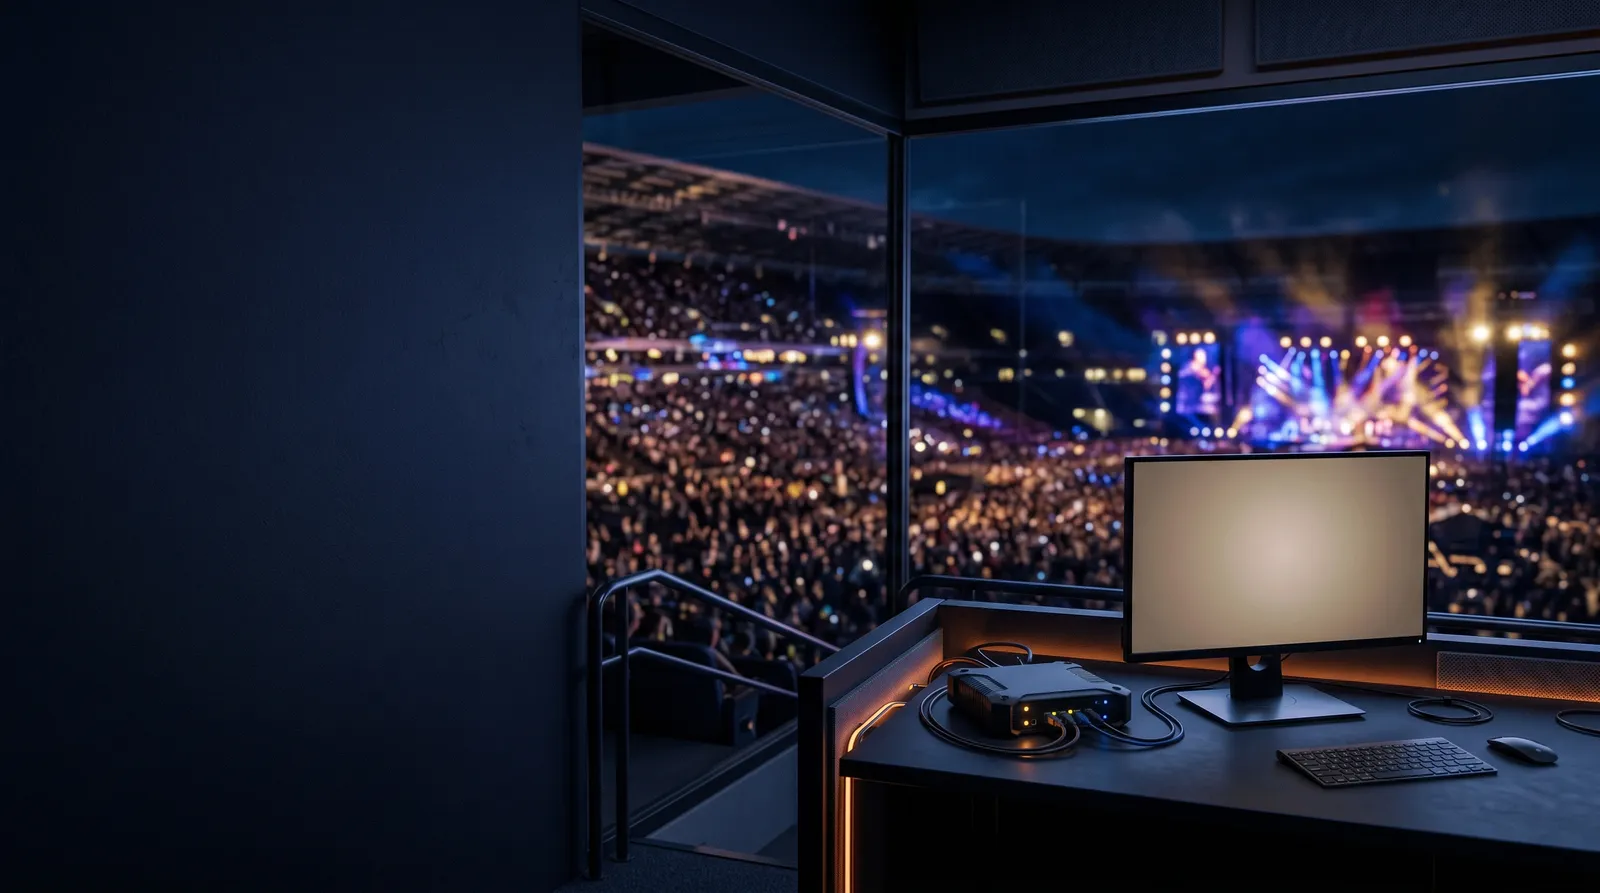
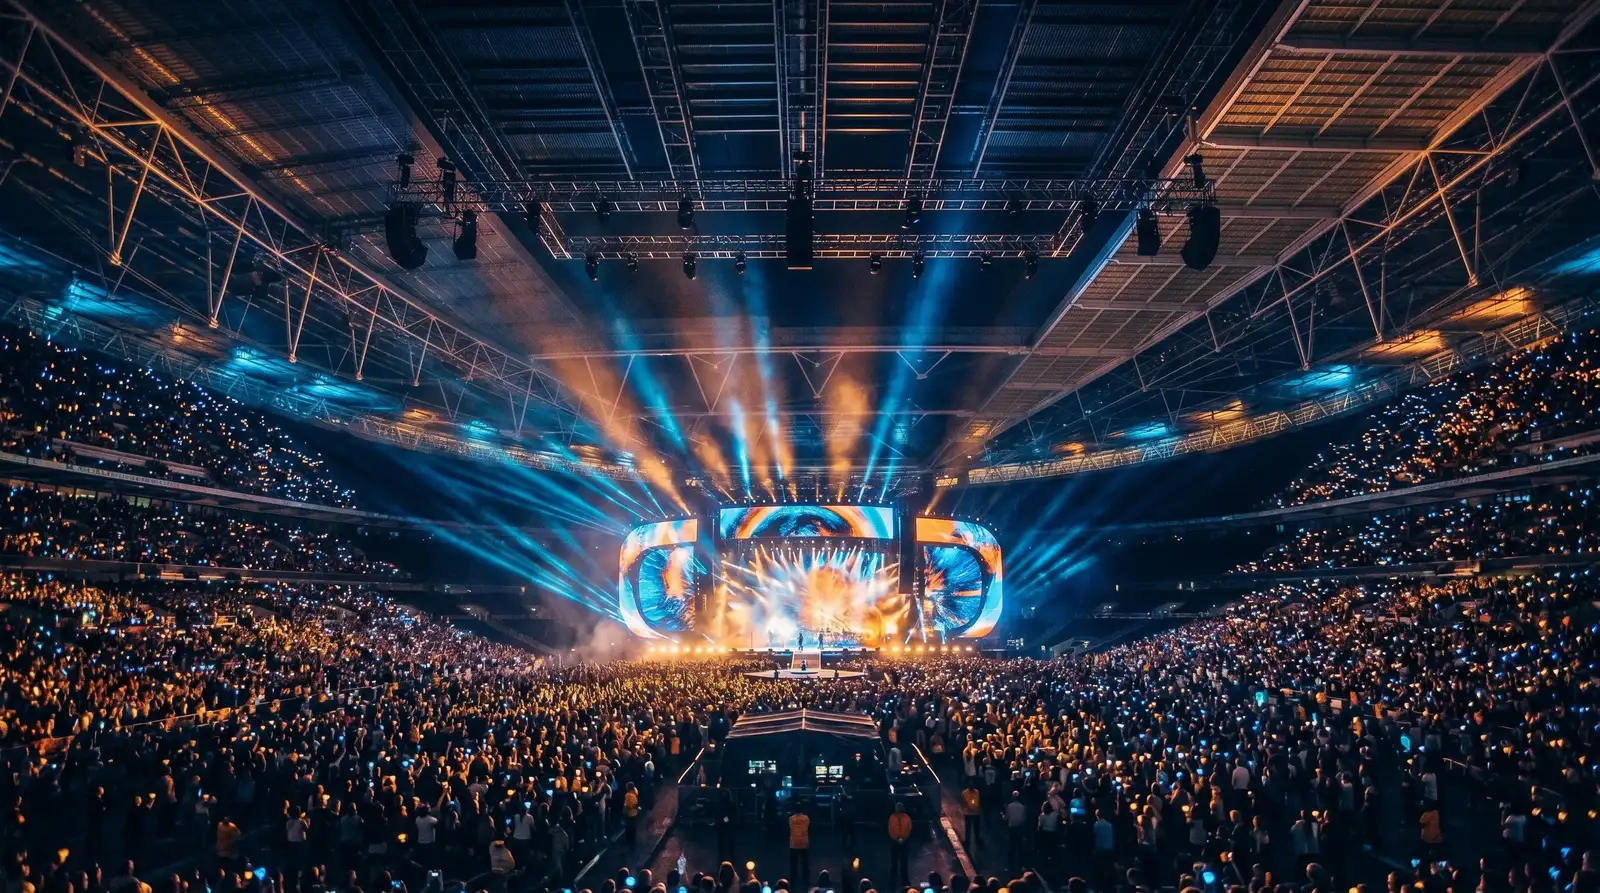
Event IT Portfolio: full-bleed hero, white cards on light-grey, benchmark Get in Touch band

diff --git a/app/event-it/portfolio/page.js b/app/event-it/portfolio/page.js
@@ -4,6 +4,7 @@ import { useState } from 'react'
 import Link from 'next/link'
 import Header from '@/components/site/Header'
 import Footer from '@/components/site/Footer'
+import CTAPhoneButtons from '@/components/site/CTAPhoneButtons'
 import * as Icons from 'lucide-react'
 
 export default function EventPortfolioPage() {
@@ -53,17 +54,17 @@ export default function EventPortfolioPage() {
 
         {/* Hero */}
         <section className="relative py-20 md:py-28 px-6 overflow-hidden" style={{ background: '#0B1A46' }}>
-          {/* Hero photo — subject RIGHT, dark zone LEFT carries H1 */}
+          {/* Hero photo — full-bleed, edge to edge */}
           <img
             src="/images/event-it/portfolio-hero.webp"
             alt="Event IT portfolio Abu Dhabi"
             loading="eager"
             fetchPriority="high"
             decoding="async"
-            style={{ position: 'absolute', inset: 0, width: '100%', height: '100%', objectFit: 'cover', objectPosition: 'right', zIndex: 0 }}
+            style={{ position: 'absolute', inset: 0, width: '100%', height: '100%', objectFit: 'cover', objectPosition: 'center', zIndex: 0 }}
           />
-          {/* Brand-blue overlay at 60% opacity */}
-          <div className="absolute inset-0 pointer-events-none" style={{ background: 'rgba(30,58,138,0.60)', zIndex: 10 }} aria-hidden="true" />
+          {/* Left-to-right gradient scrim — text legible on left, arena visible on right */}
+          <div className="absolute inset-0 pointer-events-none" style={{ background: 'linear-gradient(90deg, rgba(11,26,70,0.75) 0%, rgba(11,26,70,0.45) 45%, rgba(11,26,70,0.10) 100%)', zIndex: 10 }} aria-hidden="true" />
           {/* Orange glow */}
           <div className="pointer-events-none absolute inset-0 overflow-hidden" style={{ zIndex: 11 }}>
             <div className="absolute -top-20 left-1/2 -translate-x-1/2 w-[700px] h-[500px] rounded-full blur-3xl opacity-20" style={{ background: 'radial-gradient(circle, #E87722 0%, transparent 70%)' }}/>
@@ -81,7 +82,7 @@ export default function EventPortfolioPage() {
         </section>
 
         {/* Filter Tabs */}
-        <section className="py-8 px-6" style={{ background: 'rgba(255,255,255,0.03)', backdropFilter: 'blur(8px)' }}>
+        <section className="py-8 px-6" style={{ background: '#F4F6FA' }}>
           <div className="max-w-[1400px] mx-auto">
             <div className="flex flex-wrap justify-center gap-2">
               {categories.map((cat) => (
@@ -91,7 +92,7 @@ export default function EventPortfolioPage() {
                   className={`px-5 py-2.5 rounded-lg text-sm font-semibold transition-all ${
                     activeFilter === cat
                       ? 'bg-[#E87722] text-white'
-                      : 'bg-white/5 text-white/70 hover:bg-white/10 border border-white/10'
+                      : 'bg-white text-[#0B1A46] hover:bg-[#E87722]/10 border border-[#0B1A46]/10'
                   }`}
                 >
                   {cat}
@@ -107,12 +108,16 @@ export default function EventPortfolioPage() {
         </section>
 
         {/* Events Grid */}
-        <section className="py-16 px-6">
+        <section className="py-16 px-6" style={{ background: '#F4F6FA' }}>
           <div className="max-w-[1400px] mx-auto">
             {filteredEvents.length > 0 ? (
               <div className="grid md:grid-cols-3 gap-5">
                 {filteredEvents.map((event) => (
-                  <div key={event.id} className="glass-card overflow-hidden group hover:border-[#E87722]/40 transition-all">
+                  <div
+                    key={event.id}
+                    className="overflow-hidden group transition-all"
+                    style={{ background: '#FFFFFF', borderTop: '3px solid #E87722', borderRadius: '16px', boxShadow: '0 8px 32px rgba(10,26,70,0.18)' }}
+                  >
                     <div className="h-48 relative overflow-hidden" style={{ background: 'linear-gradient(135deg, rgba(232,119,34,0.15) 0%, rgba(27,108,168,0.15) 100%)' }}>
                       {event.img ? (
                         <img
@@ -129,28 +134,27 @@ export default function EventPortfolioPage() {
                           <Icons.Play size={64} className="text-white/20"/>
                         </div>
                       )}
-                      <div className="absolute inset-0 bg-gradient-to-t from-[rgba(7,16,42,0.95)] to-transparent opacity-80 pointer-events-none"/>
                     </div>
                     <div className="p-6">
-                      <h3 className="text-white text-lg font-bold mb-2">{event.name}</h3>
-                      <div className="flex items-center gap-2 mb-3 text-white/60 text-sm">
+                      <h3 className="text-lg font-bold mb-2" style={{ color: '#0B1A46' }}>{event.name}</h3>
+                      <div className="flex items-center gap-2 mb-3 text-sm" style={{ color: '#58595B' }}>
                         <Icons.MapPin size={14}/>
                         <span>{event.location}</span>
                         <span>•</span>
                         <span>{event.year}</span>
                       </div>
-                      <p className="body-text text-sm mb-2"><strong>Services:</strong> {event.services}</p>
-                      <p className="body-text text-sm mb-4"><strong>Technology:</strong> {event.tech}</p>
+                      <p className="text-sm mb-2" style={{ color: '#58595B' }}><strong style={{ color: '#0B1A46' }}>Services:</strong> {event.services}</p>
+                      <p className="text-sm mb-4" style={{ color: '#58595B' }}><strong style={{ color: '#0B1A46' }}>Technology:</strong> {event.tech}</p>
                       <div className="flex flex-wrap gap-2">
                         {event.slug && (
-                          <Link href={`/event-it/${event.slug}`} className="inline-flex items-center gap-1.5 text-[#E87722] text-sm font-semibold px-4 py-1.5 rounded-full border border-[#E87722]/50 bg-[#E87722]/5 group-hover:bg-[#E87722] group-hover:text-white group-hover:border-[#E87722] transition-all">
+                          <Link href={`/event-it/${event.slug}`} className="inline-flex items-center gap-1.5 text-[#E87722] text-sm font-semibold hover:underline transition-all">
                             Read Case Study <Icons.ArrowRight size={13}/>
                           </Link>
                         )}
                         {event.video && (
                           <button
                             onClick={(e) => { e.preventDefault(); setVideoModal({ src: event.video, label: event.videoLabel }) }}
-                            className="inline-flex items-center gap-1.5 text-white/80 text-sm font-semibold px-4 py-1.5 rounded-full border border-white/20 bg-white/5 hover:bg-white/10 transition-all"
+                            className="inline-flex items-center gap-1.5 text-[#E87722] text-sm font-semibold hover:underline transition-all"
                           >
                             <Icons.Play size={13}/> Watch Video
                           </button>
@@ -162,21 +166,41 @@ export default function EventPortfolioPage() {
               </div>
             ) : (
               <div className="text-center py-16">
-                <Icons.Search size={48} className="text-white/20 mx-auto mb-4"/>
-                <p className="text-white/60 text-lg">No events found in this category</p>
+                <Icons.Search size={48} className="mx-auto mb-4" style={{ color: '#0B1A46', opacity: 0.2 }}/>
+                <p className="text-lg" style={{ color: '#58595B' }}>No events found in this category</p>
               </div>
             )}
           </div>
         </section>
 
         {/* Bottom CTA */}
-        <section className="py-16 px-6" style={{ background: 'rgba(255,255,255,0.03)', backdropFilter: 'blur(8px)' }}>
-          <div className="max-w-[1200px] mx-auto text-center">
-            <h2 className="text-white text-3xl md:text-4xl font-bold mb-4">Plan Your Event IT Infrastructure</h2>
-            <p className="body-text max-w-2xl mx-auto mb-8">Get a custom quote for your upcoming event with our expert team</p>
-            <Link href="/contact" className="btn-primary">
-              Get an Event Quote <Icons.ArrowRight size={16}/>
-            </Link>
+        <section style={{
+          background: 'linear-gradient(135deg, #0B1A46 0%, #1E3A8A 100%)',
+          borderTop: '3px solid #E87722',
+          padding: '96px 24px',
+        }}>
+          <div style={{ maxWidth: '900px', margin: '0 auto', textAlign: 'center' }}>
+            <h2 style={{
+              color: '#FFFFFF',
+              fontWeight: 800,
+              fontSize: 'clamp(2rem, 4vw, 3rem)',
+              letterSpacing: '-0.02em',
+              lineHeight: 1.15,
+              marginBottom: '16px',
+            }}>
+              Plan Your Event IT Infrastructure
+            </h2>
+            <p style={{
+              color: 'rgba(255,255,255,0.78)',
+              fontSize: '17px',
+              lineHeight: 1.75,
+              maxWidth: '580px',
+              margin: '0 auto 36px',
+            }}>
+              Get a custom quote for your upcoming event with our expert team — temporary
+              networks, broadcast LAN, CCTV and command-centre support across UAE and Canada.
+            </p>
+            <CTAPhoneButtons />
           </div>
         </section>
       </main>